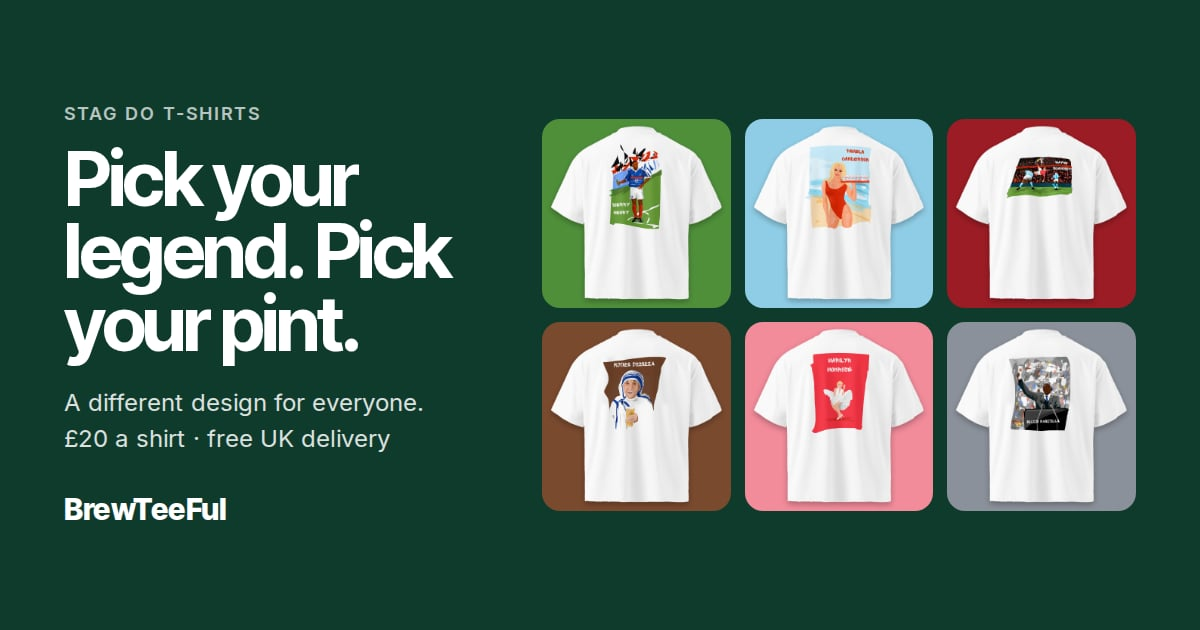
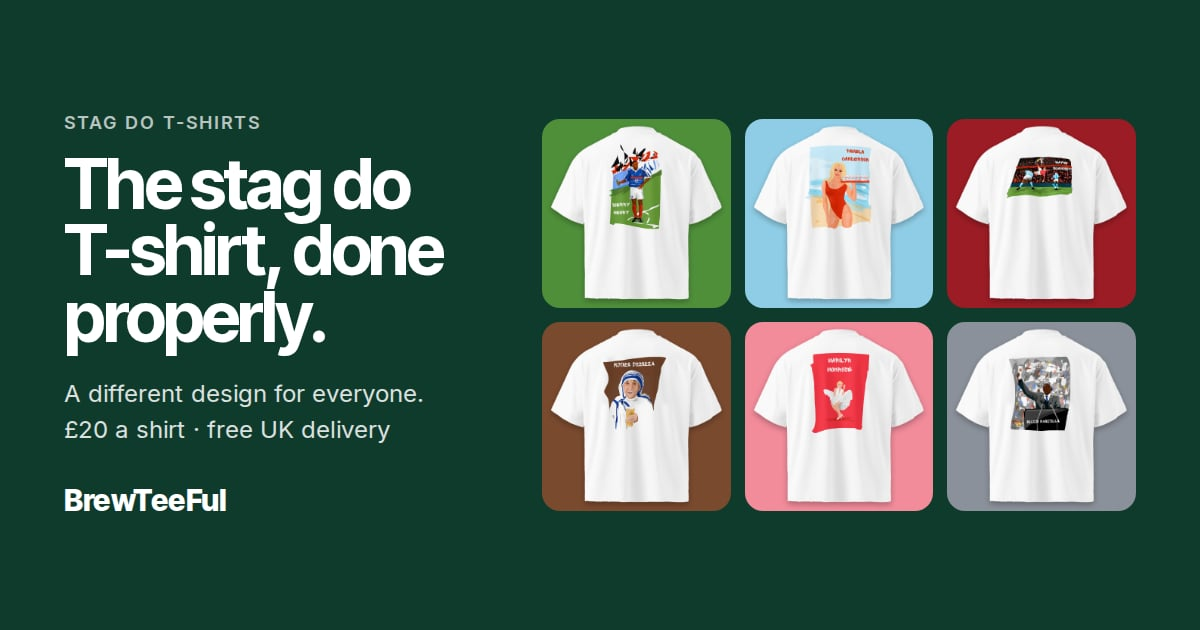
Headline 'The stag do T-shirt, done properly.' on both homepage variants
- Default hero_headline updated (also set in live site_settings).
- Variant B now renders the same content.hero_headline as A, so the
  homepage test compares layout only.
- KeepTogether stops 'T-shirt' breaking at its hyphen in big headlines.
- Share image regenerated with the new headline.

Claude-Session: https://claude.ai/code/session_01EwokZn7HEvaP5ybmMd57Fa

diff --git a/app/page.tsx b/app/page.tsx
@@ -5,6 +5,7 @@ import { gbp, deliveryWindowText } from "@/lib/format";
 import { BRAND, absoluteUrl } from "@/lib/brand";
 import { Lineup } from "@/components/site/Lineup";
 import { HeroB } from "@/components/site/HeroB";
+import { KeepTogether } from "@/components/site/KeepTogether";
 import { TeeArt } from "@/components/site/TeeArt";
 import { CtaLink } from "@/components/site/CtaLink";
 import { Faqs } from "@/components/site/Faqs";
@@ -71,6 +72,7 @@ export default async function HomePage() {
           deliveryWindow={deliveryWindow}
           freeDelivery={freeFrom <= min}
           cta={c.hero_cta}
+          headline={c.hero_headline}
         />
       ) : (
       <section className="relative overflow-hidden">
@@ -80,7 +82,7 @@ export default async function HomePage() {
             <p className="chip border-pitch/15 bg-pitch/[0.06] text-pitch">
               <span className="h-1.5 w-1.5 rounded-full bg-flare" /> {c.hero_eyebrow}
             </p>
-            <h1 className="h-display mt-5 text-balance text-[3.25rem] md:text-[5.25rem]">{c.hero_headline}</h1>
+            <h1 className="h-display mt-5 text-balance text-[3.25rem] md:text-[5.25rem]"><KeepTogether text={c.hero_headline} /></h1>
             <p className="mt-5 max-w-md text-[17px] leading-relaxed text-ink/70 md:text-lg">{c.hero_subheadline}</p>
             <div className="mt-8 flex flex-col gap-3 sm:flex-row">
               <CtaLink href="/build" location="hero" className="btn-primary h-14 px-8 text-base">

diff --git a/components/site/HeroB.tsx b/components/site/HeroB.tsx
@@ -2,6 +2,7 @@ import Link from "next/link";
 import { TeeArt } from "@/components/site/TeeArt";
 import { CtaLink } from "@/components/site/CtaLink";
 import { TrackOnView } from "@/components/site/TrackOnView";
+import { KeepTogether } from "@/components/site/KeepTogether";
 import type { ProductWithRelations } from "@/lib/types";
 
 /**
@@ -17,6 +18,7 @@ export function HeroB({
   deliveryWindow,
   freeDelivery,
   cta,
+  headline,
 }: {
   products: ProductWithRelations[];
   price: string;
@@ -24,6 +26,8 @@ export function HeroB({
   deliveryWindow: string;
   freeDelivery: boolean;
   cta: string;
+  /** Same headline as A (content.hero_headline), so the test only compares layout. */
+  headline: string;
 }) {
   return (
     <section className="relative overflow-hidden bg-pitch text-chalk">
@@ -31,7 +35,7 @@ export function HeroB({
       <div className="relative mx-auto max-w-6xl px-4 pb-2 pt-6 md:px-6 md:pt-14">
         <p className="text-[12px] font-semibold uppercase tracking-[0.16em] text-chalk/60">Stag do T-shirts</p>
         <h1 className="h-display mt-2 max-w-3xl text-balance text-[2.5rem] leading-[0.95] md:text-[4.5rem]">
-          A different legend for every one of you.
+          <KeepTogether text={headline} />
         </h1>
         <p className="mt-3 text-[16px] text-chalk/80 md:text-lg">
           <strong className="text-chalk">{price} a shirt</strong> · min {min} · {freeDelivery ? "free UK delivery" : "UK delivery"} in {deliveryWindow}

diff --git a/lib/settings.ts b/lib/settings.ts
@@ -145,7 +145,7 @@ export const DEFAULT_SETTINGS: SiteSettings = {
   },
   content: {
     hero_eyebrow: "Stag do T-shirts",
-    hero_headline: "Pick your legend. Pick your pint.",
+    hero_headline: "The stag do T-shirt, done properly.",
     hero_subheadline:
       "Stag shirts starring hand-illustrated icons. A different one for each member of the group, including Bierry Henry, Wayne Schooney, Pamela Canderson and more.",
     hero_cta: "Build your stag set",

diff --git a/components/site/KeepTogether.tsx b/components/site/KeepTogether.tsx
@@ -1,0 +1,16 @@
+/** Stops "T-shirt(s)" splitting across lines at the hyphen in big headlines. */
+export function KeepTogether({ text }: { text: string }) {
+  return (
+    <>
+      {text.split(/(T-shirts?)/i).map((part, i) =>
+        i % 2 ? (
+          <span key={i} className="whitespace-nowrap">
+            {part}
+          </span>
+        ) : (
+          part
+        )
+      )}
+    </>
+  );
+}
